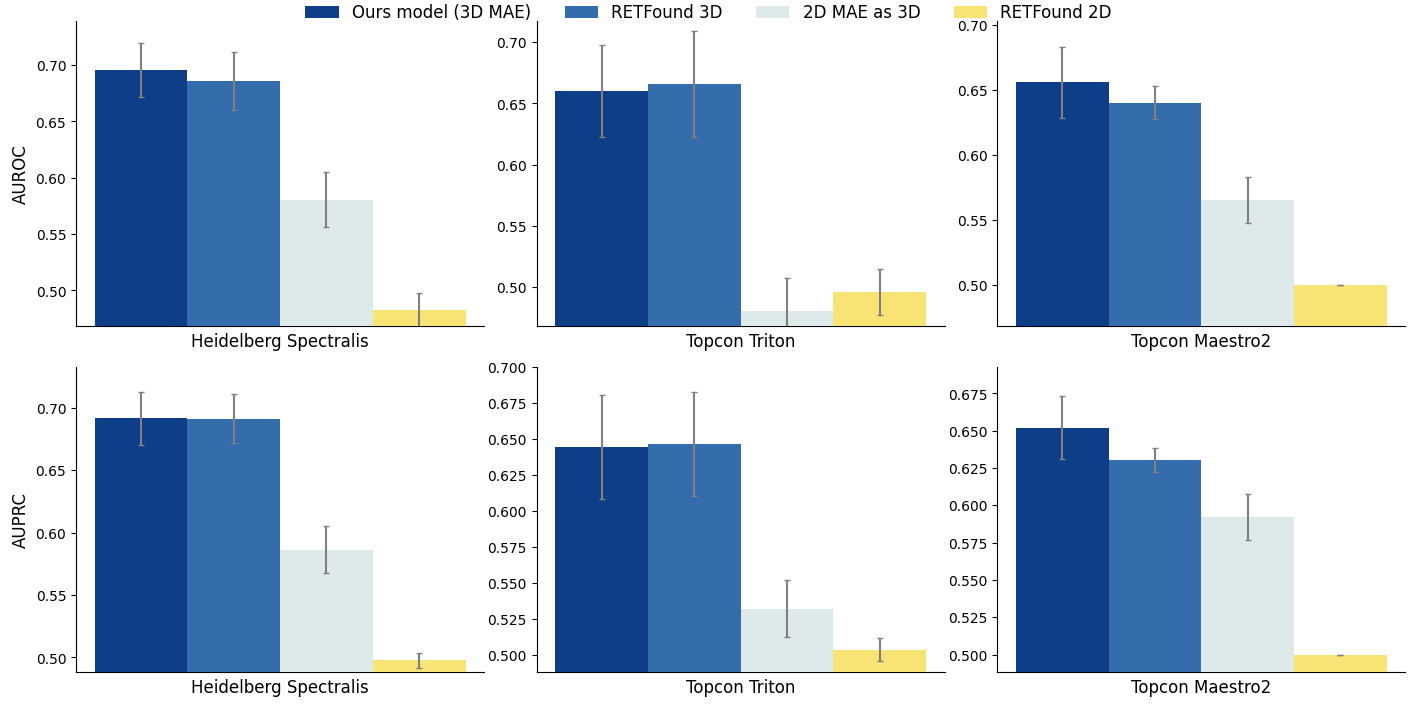
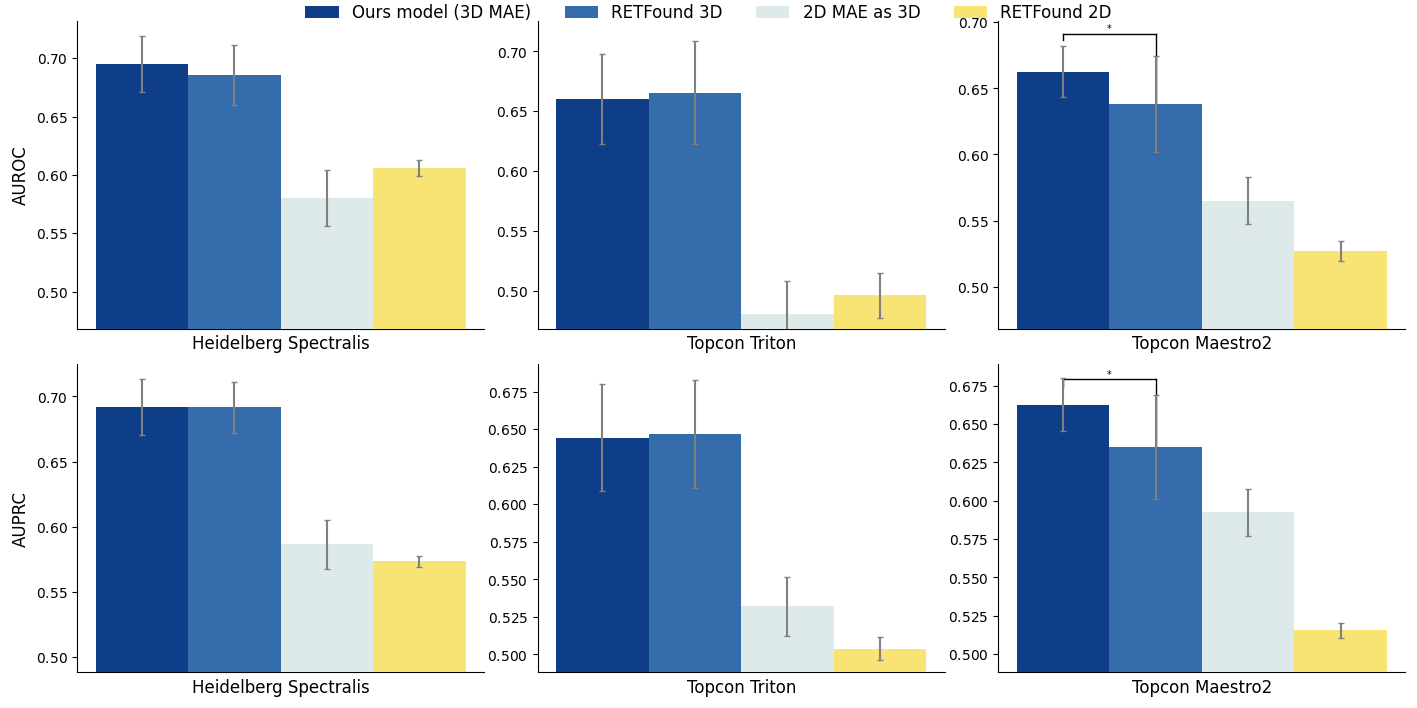
update results

diff --git a/aireadi_oph_data_cls_plot.py b/aireadi_oph_data_cls_plot.py
@@ -10,14 +10,42 @@ from fig_utils import *
 from scipy.stats import ttest_rel, ttest_ind
 # this_file_dir = 
 
-home_directory = os.getenv('HOME')
+home_directory = os.getenv('HOME') + '/'
 if 'wxdeng' in home_directory:
     home_directory =  home_directory + '/oph/'
 
 this_file_dir = home_directory + 'retfound_baseline/'
 save_file_dir = os.path.dirname(os.path.abspath(__file__))
 
+def calculate_quartiles_and_bounds(data):
+    import numpy as np
+    
+    # 确保数据被排序
+    data_sorted = np.sort(data)
+    
+    # 计算Q1和Q3
+    Q1 = np.percentile(data_sorted, 25)
+    Q3 = np.percentile(data_sorted, 75)
+    
+    # 计算IQR
+    IQR = Q3 - Q1
+    
+    # 计算下界和上界
+    lower_bound = Q1 - 1.5 * IQR
+    upper_bound = Q3 + 1.5 * IQR
+    
+    return Q1, Q3, lower_bound, upper_bound
 
+def find_min_max_indices(data):
+    # 确保数据非空且为列表类型
+    if not data or not isinstance(data, list):
+        return None, None
+
+    # 获取最小值和最大值的索引
+    min_index = data.index(min(data))
+    max_index = data.index(max(data))
+
+    return min_index, max_index
 # -----------------DATASET SETTINGS-----------------
 # INHOUSE_OPH_DATASET_DICT = {
 #     # "DUKE13": "duke13",
@@ -108,8 +136,13 @@ MISC_SUFFIX_DICT = {
     # ("oimhs", "default", "outputs_ft", "2D"): "correct",
     # ("oimhs", "fewshot", "outputs_ft_st", "3D"): "correct_15",
     # ("oimhs", "default", "outputs_ft_st", "3D"): "correct_15",
-    ("maes", "default", "retfound", "3D"): "normalize",
-    ("maes", "default", "MAE-joint", "3D"): "maybe_better_shifted"
+    # ("maes", "default", "retfound", "3D"): "normalize",
+    ('maes', 'default', 'retfound', '3D'): "reproduce_10folds",
+    ('maes', 'default', 'MAE-joint', '3D'): "reproduce_10folds_new",
+    ('maes', 'default', 'retfound', '2D'): "50",
+    ('spec', 'default', 'retfound', '2D'): "50",
+    # ('triton', 'default', 'retfound', '2D'): "50",
+    # ("maes", "default", "MAE-joint", "3D"): ""
     # ("triton", "default", "retfound", "3D"): "normalize"
 }
 
@@ -283,10 +316,26 @@ def AIREADI_oph_tasks_barplot(fig, axes, grouped_dict, setting_code='fewshot', p
 
         y_h = df_dict[plot_task][plot_methods[0]][:, plot_col_idx].tolist()
         y_l = df_dict[plot_task][compare_col][:, plot_col_idx].tolist()
-        
+        print(np.std(y_h), np.std(y_l))
+        print(calculate_quartiles_and_bounds(y_h))
+        print(calculate_quartiles_and_bounds(y_l))
+        print(find_min_max_indices(y_h))
+        print(find_min_max_indices(y_l))
+        idx_hh, idx_hl = find_min_max_indices(y_h)
+        idx_lh, idx_ll = find_min_max_indices(y_l)
+        # filter out the outliers
+        outlier_idx = set([idx_hh, idx_hl, idx_lh, idx_ll])
+        y_h = [y_h[i] for i in range(len(y_h)) if i not in outlier_idx]
+        y_l = [y_l[i] for i in range(len(y_l)) if i not in outlier_idx]
+        # Get the 1.5quantile of the data
+
+
         # p_value = wilcoxon(y_h, y_l, alternative='greater').pvalue
-        t_stat, p_value = ttest_rel(y_h * 3 , y_l * 3)
-        # print(compare_col, plot_methods_name[0], p_value)
+        t_stat, p_value = ttest_rel(y_h , y_l)
+        # t_stat, p_value = ttest_ind(y_h, y_l)
+        # wilcoxon test
+        # t_stat, p_value = wilcoxon(y_h*2, y_l*2, alternative='greater')
+        print(compare_col, plot_methods_name[0], p_value)
 
         ax.set_xticks([])
         ax.set_xlabel(AIREADI_DEVICE_PLOT_NAME[plot_task], fontsize=12)
